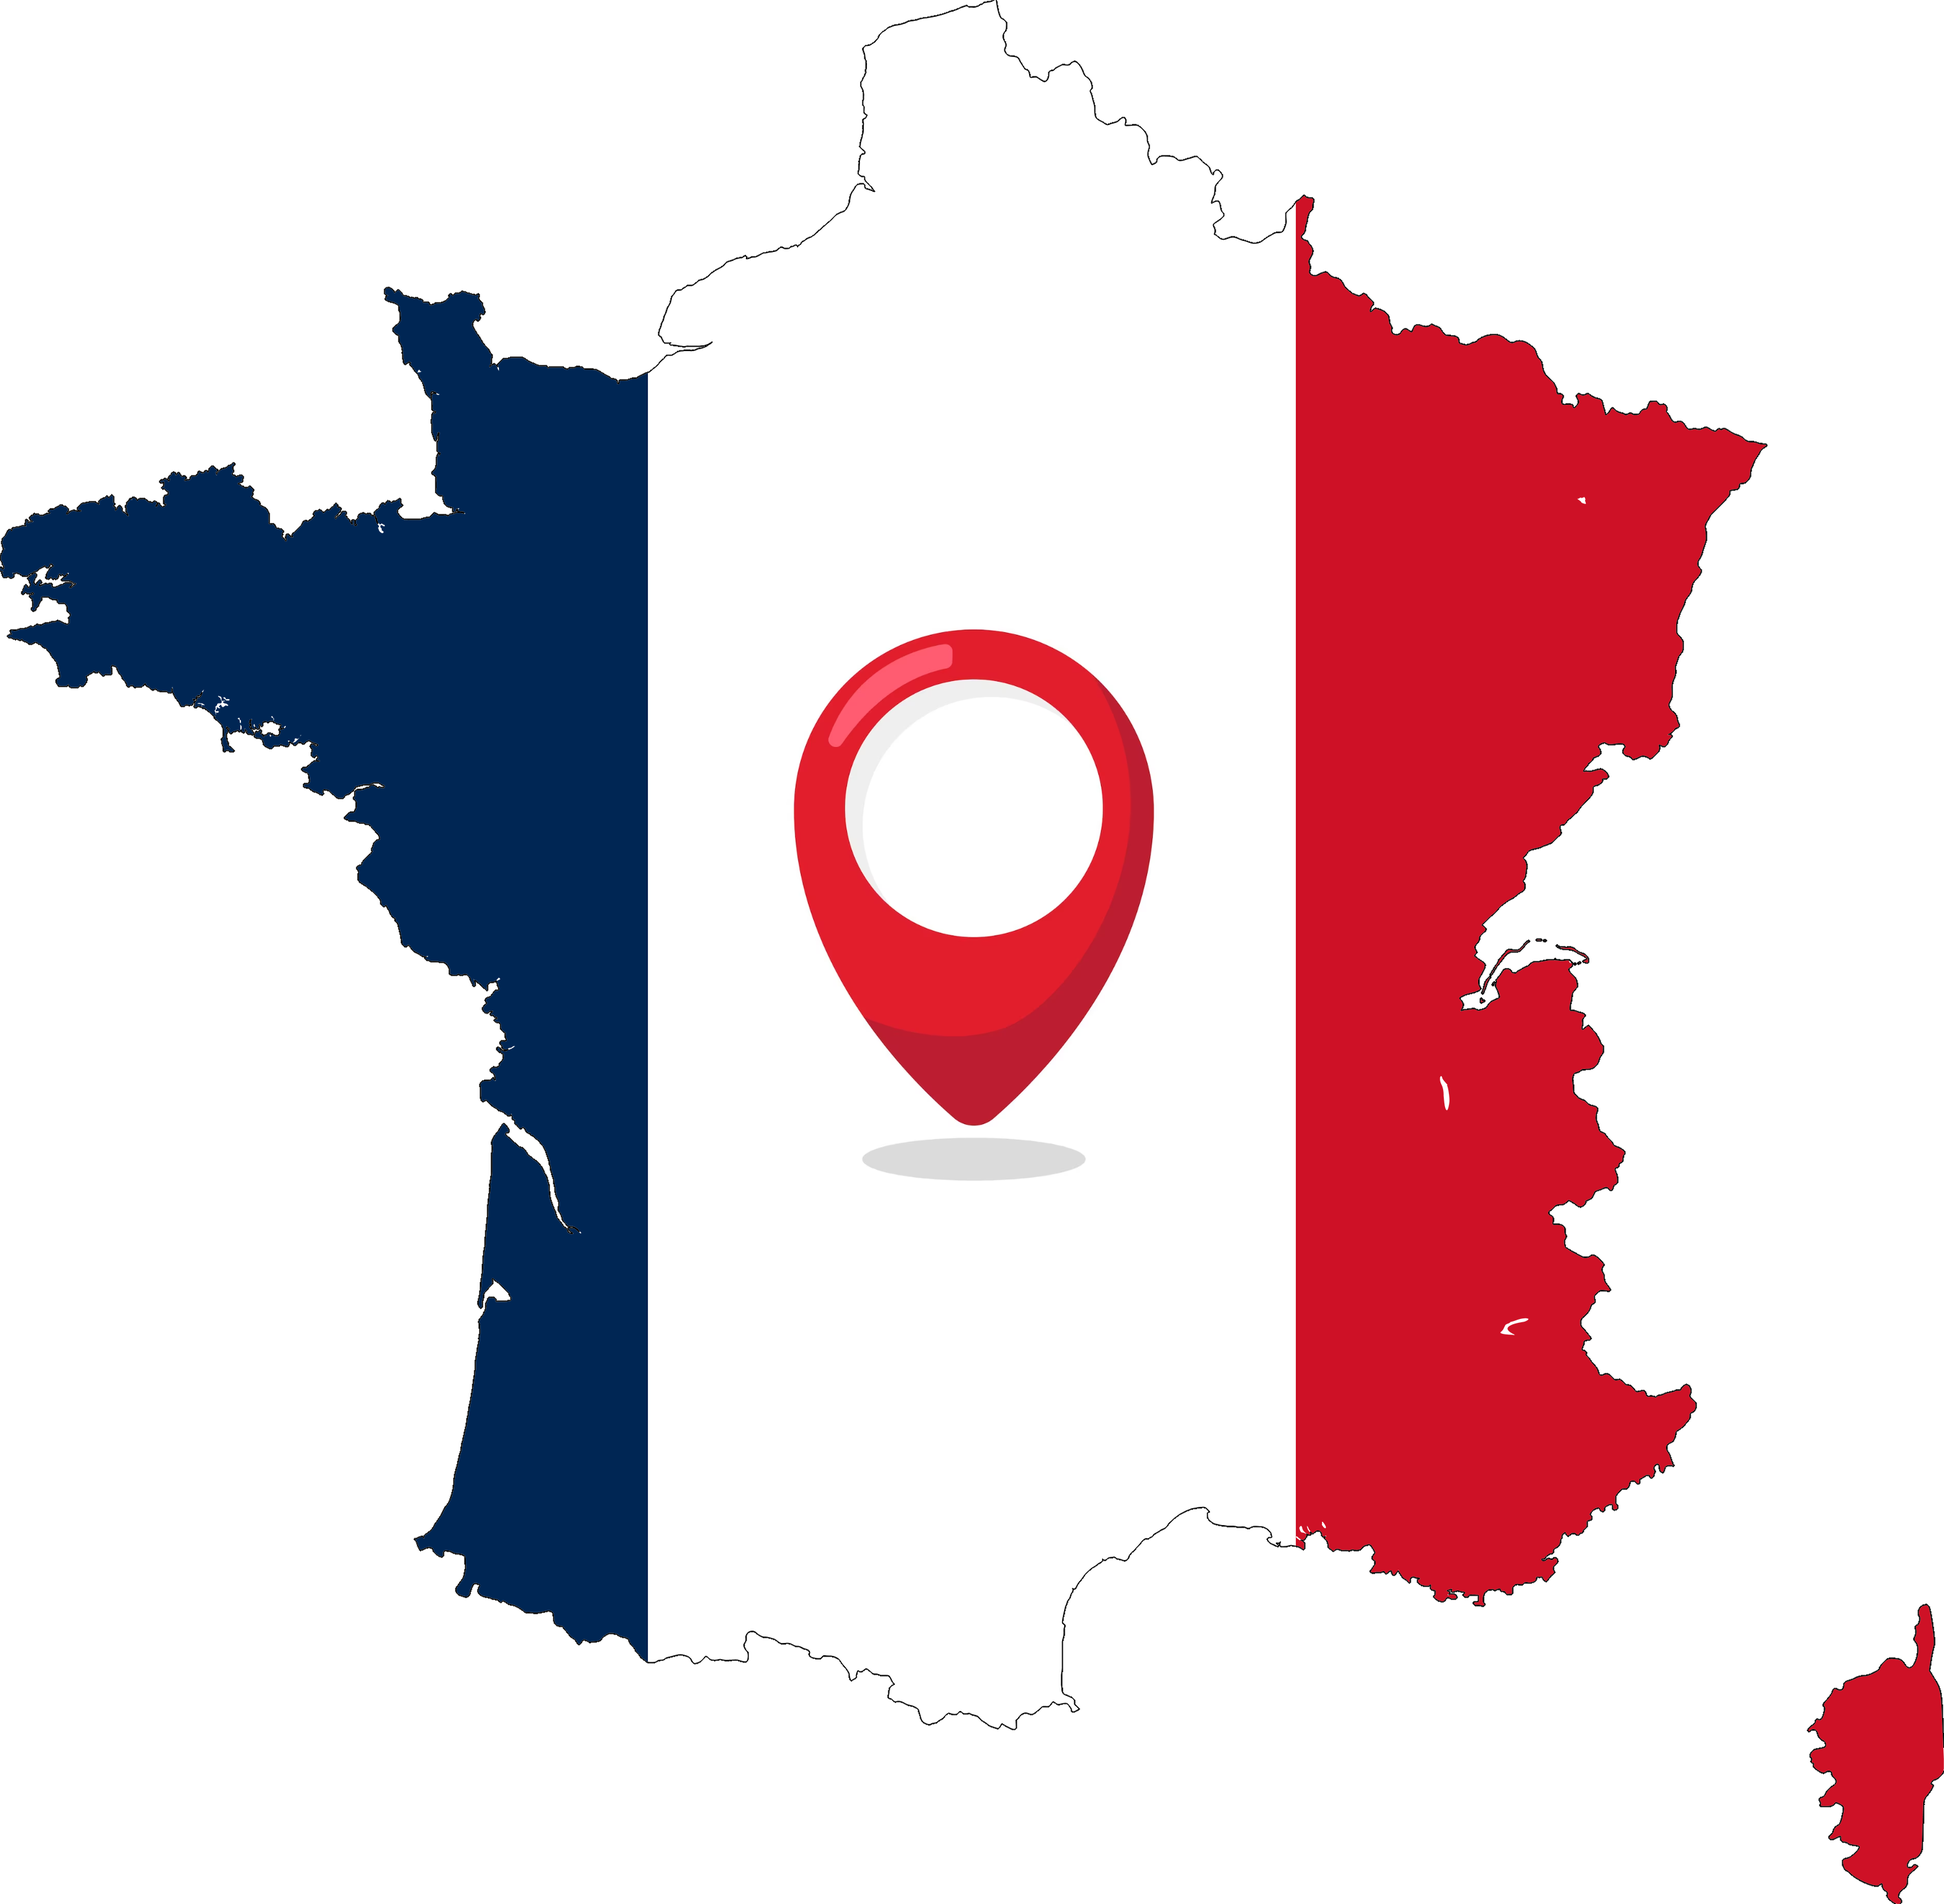
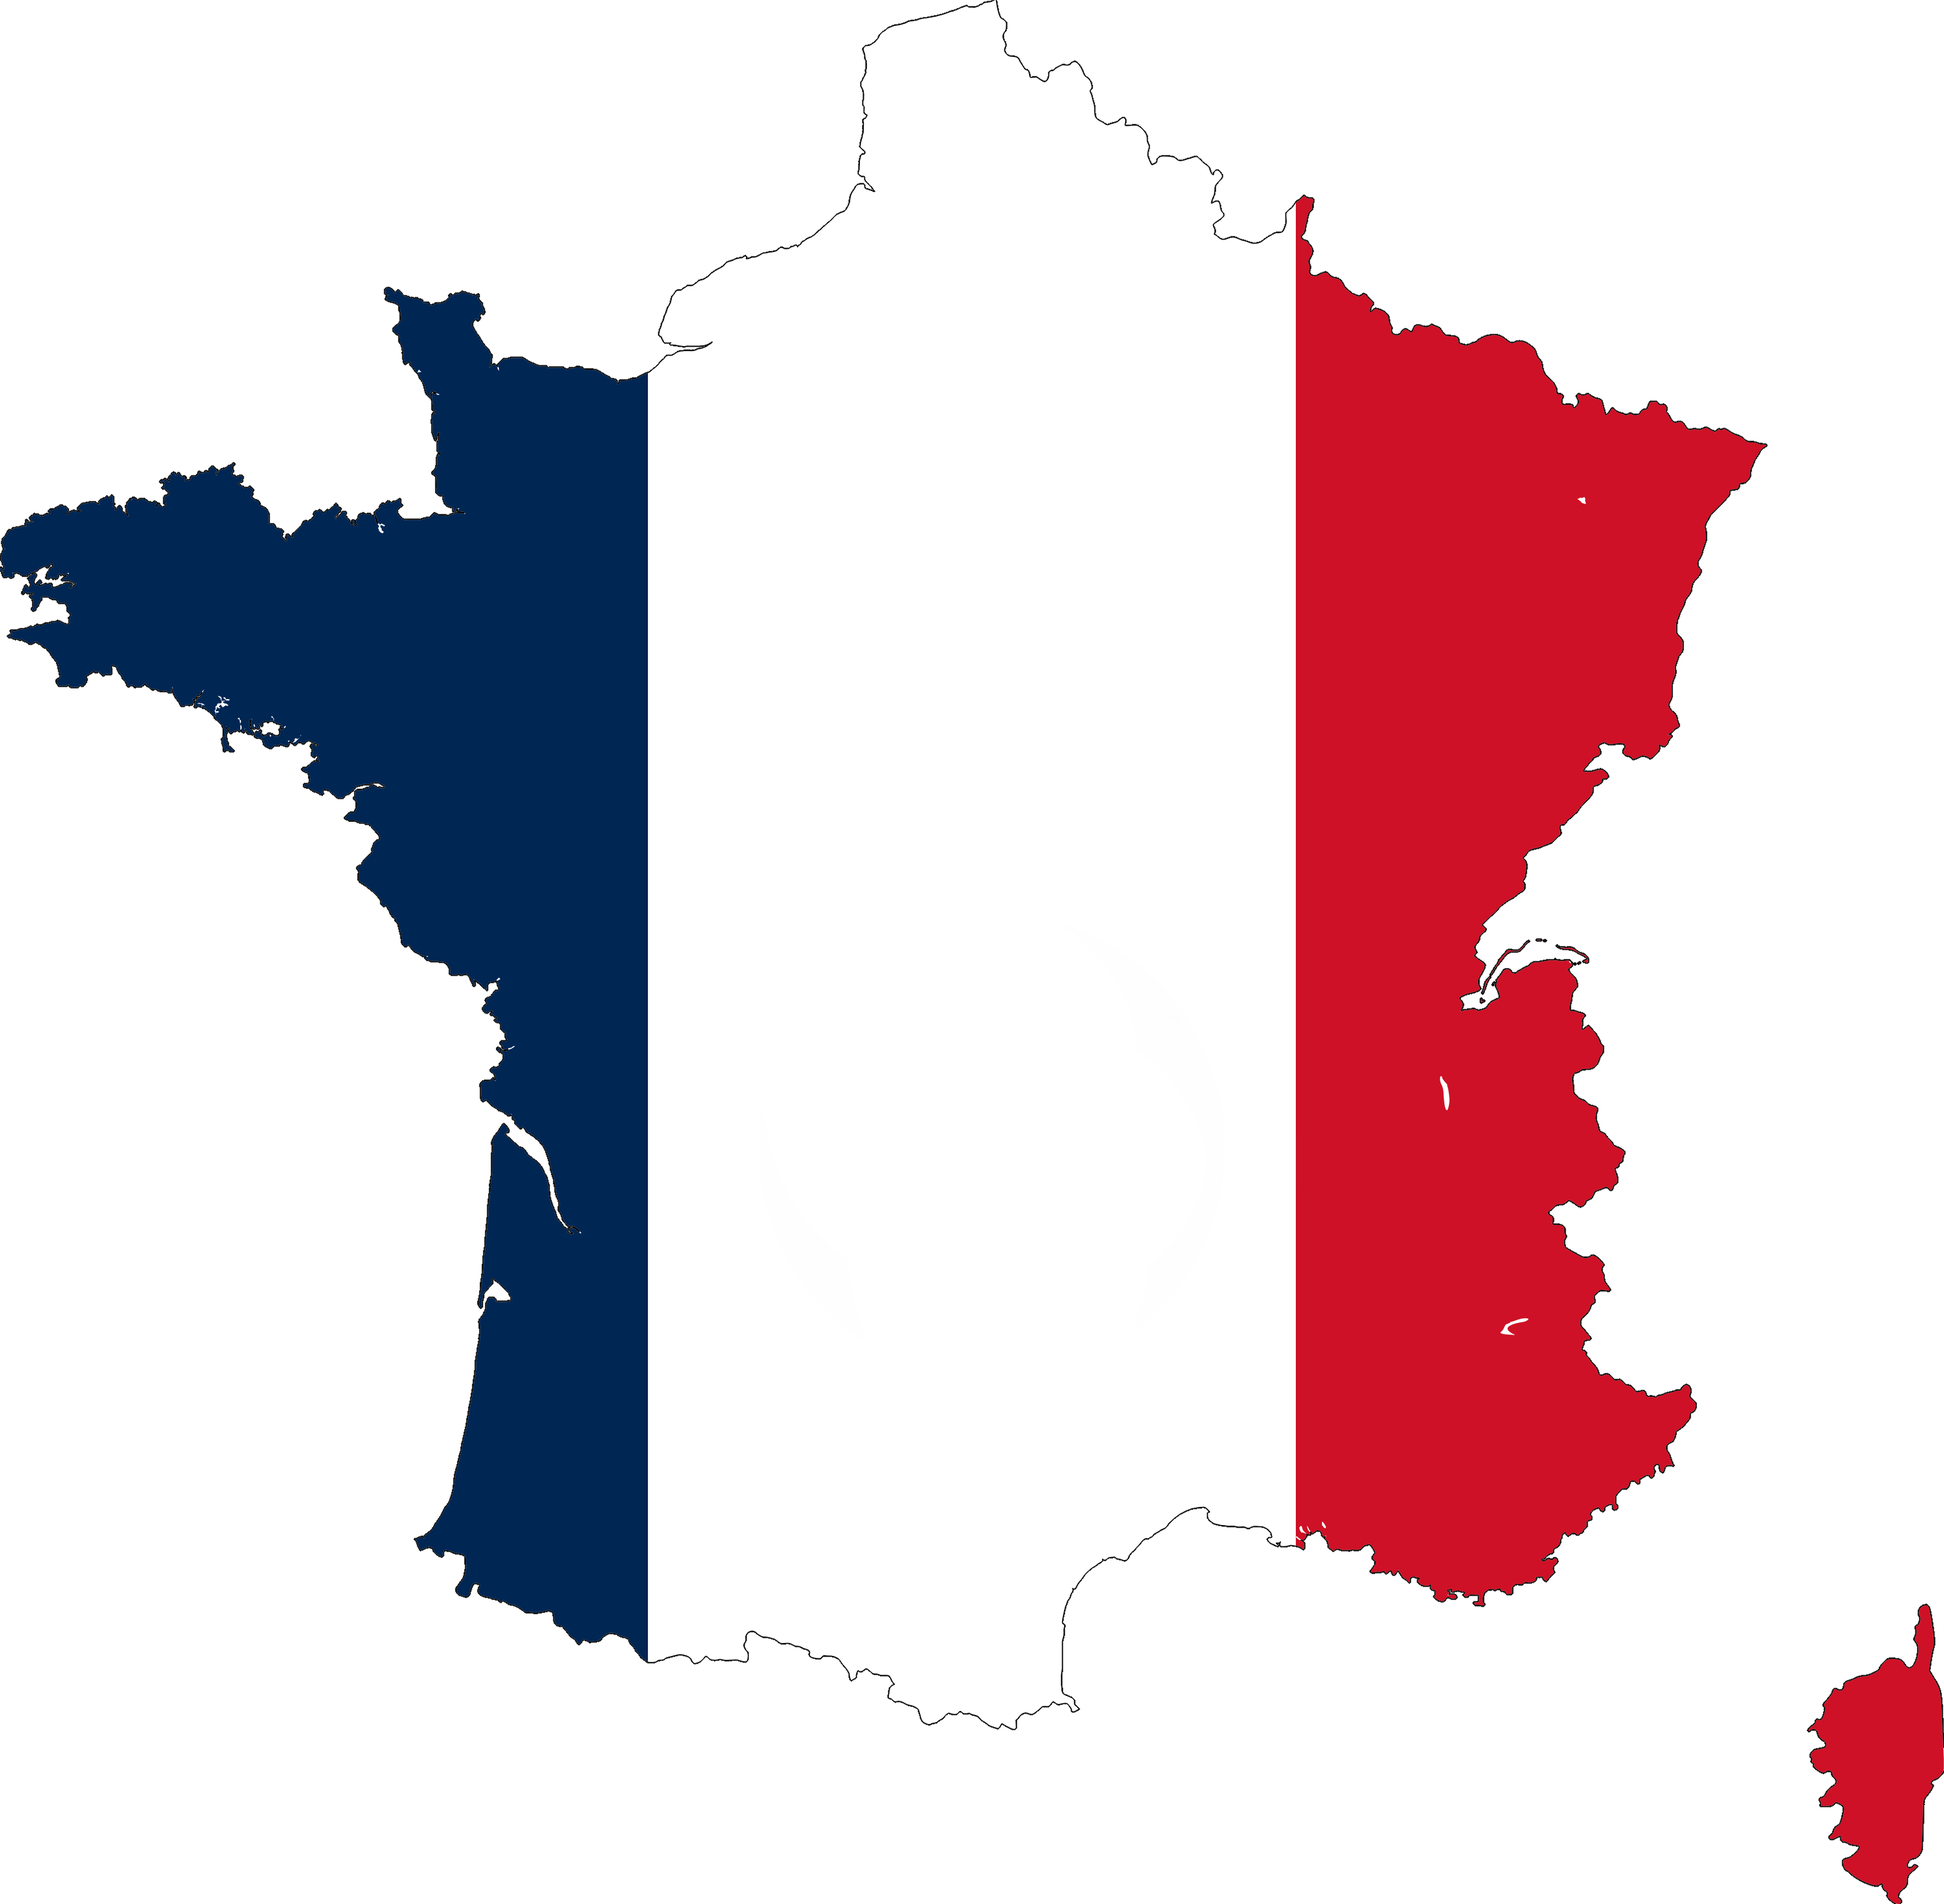
Ping

Changed region(s): [[0.403, 0.3096, 0.62, 0.6193]]

diff --git a/index.html b/index.html
@@ -7,10 +7,7 @@
   <title>Document</title>
 </head>
 <body>
-  <h1>test</h1>
-  <h1>test</h1>
-  <h1>test</h1>
-  <h1>test</h1>
-  <h1>test</h1>
+<img class="map" src="/img/french-map.png" alt="map">
+<img class="ping" src="/img/ping_bleuD.png" alt="map">
 </body>
 </html>

diff --git a/css/style.css b/css/style.css
@@ -1,1 +1,1 @@
-h1{color:#df9898}/*# sourceMappingURL=style.css.map */
+.map{width:49%}.ping{position:absolute;z-index:1}/*# sourceMappingURL=style.css.map */

diff --git a/scss/main.scss b/scss/main.scss
@@ -1,3 +1,7 @@
-h1 {
-  color: rgb(223, 152, 152);
+.map {
+  width: 49%;
+}
+.ping {
+  position: absolute;
+  z-index: 1;
 }
